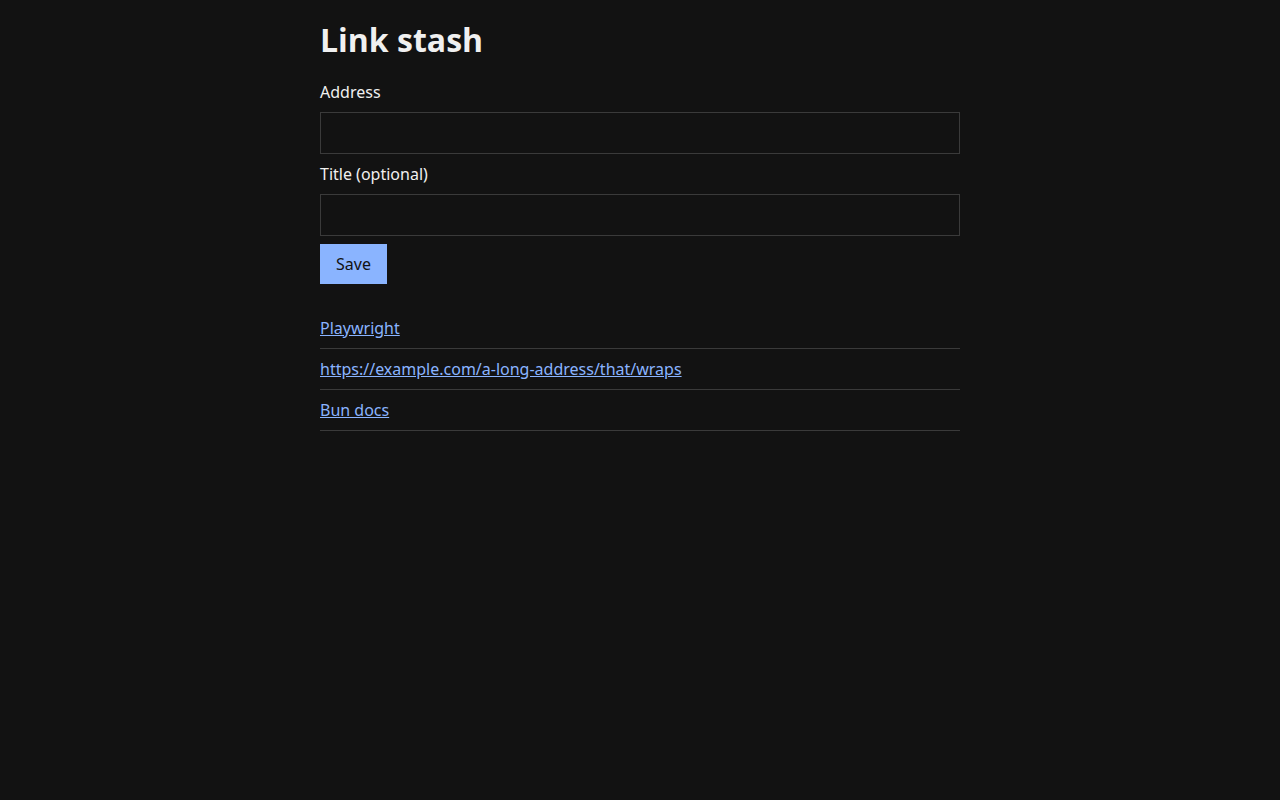
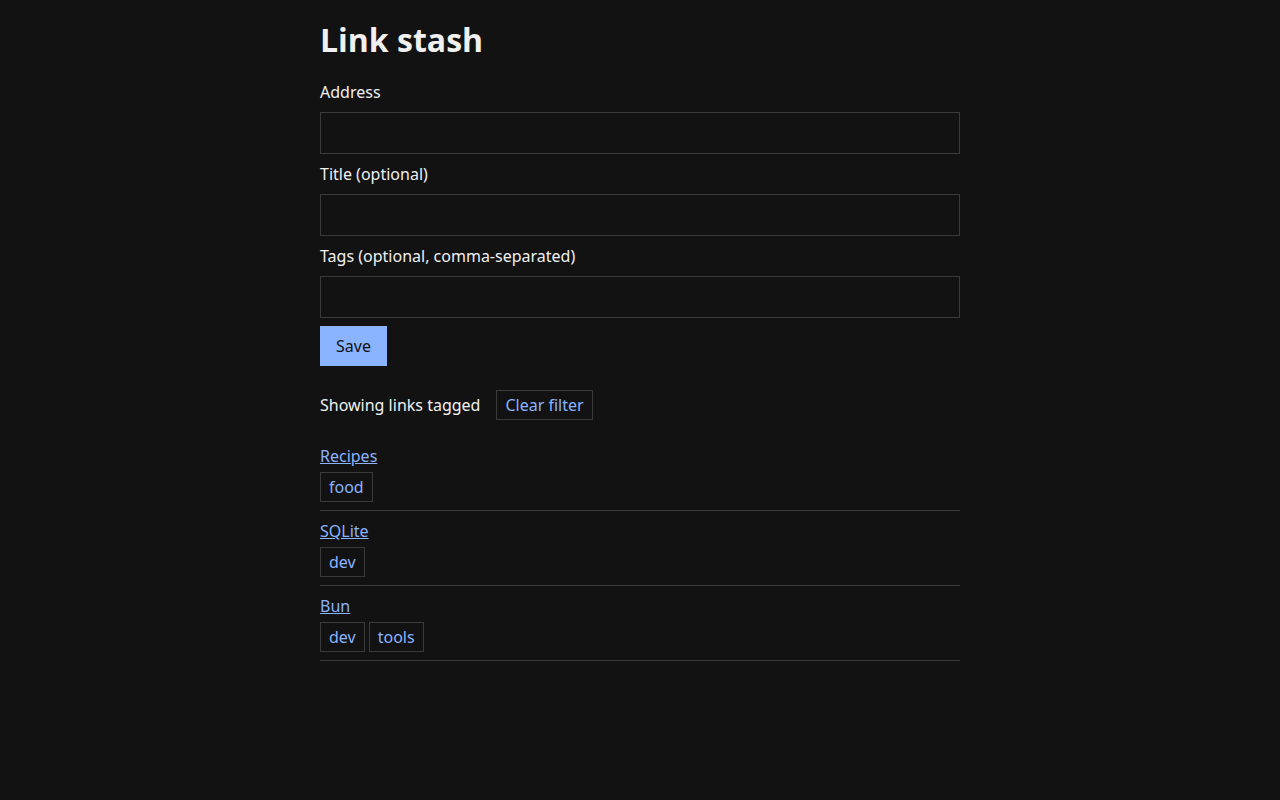
feat: tag a link and filter the list by tag (#9)

diff --git a/public/app.js b/public/app.js
@@ -3,10 +3,19 @@ const urlInput = document.getElementById('url');
 const titleInput = document.getElementById('title');
 const saveButton = document.getElementById('save');
 const urlError = document.getElementById('url-error');
+const tagsInput = document.getElementById('tags');
+const filterBar = document.getElementById('filter');
+const filterTag = document.getElementById('filter-tag');
+const clearFilter = document.getElementById('clear-filter');
 const empty = document.getElementById('empty');
 const list = document.getElementById('links');
 
+let activeTag = '';
+
 function render(links) {
+  empty.textContent = activeTag ? `No links tagged ${activeTag}` : 'No links saved yet';
+  filterBar.hidden = !activeTag;
+  filterTag.textContent = activeTag;
   empty.hidden = links.length > 0;
   list.hidden = links.length === 0;
   list.replaceChildren(
@@ -17,6 +26,20 @@ function render(links) {
       anchor.textContent = link.title || link.url;
       anchor.rel = 'noopener noreferrer';
       item.append(anchor);
+      if (link.tags.length > 0) {
+        const tags = document.createElement('span');
+        tags.className = 'tags';
+        for (const tag of link.tags) {
+          const button = document.createElement('button');
+          button.type = 'button';
+          button.className = 'tag';
+          button.textContent = tag;
+          button.setAttribute('aria-label', `Show links tagged ${tag}`);
+          button.addEventListener('click', () => setFilter(tag));
+          tags.append(button);
+        }
+        item.append(tags);
+      }
       return item;
     }),
   );
@@ -29,9 +52,23 @@ function showError(message) {
 }
 
 async function load() {
-  const res = await fetch('/api/links');
-  render((await res.json()).links);
+  try {
+    const res = await fetch(activeTag ? `/api/links?tag=${encodeURIComponent(activeTag)}` : '/api/links');
+    if (!res.ok) throw new Error(String(res.status));
+    render((await res.json()).links);
+  } catch {
+    empty.textContent = 'Could not load links. Reload to try again.';
+    empty.hidden = false;
+    list.hidden = true;
+  }
 }
+
+function setFilter(tag) {
+  activeTag = tag;
+  return load();
+}
+
+clearFilter.addEventListener('click', () => setFilter(''));
 
 form.addEventListener('submit', async (event) => {
   event.preventDefault();
@@ -41,7 +78,7 @@ form.addEventListener('submit', async (event) => {
     const res = await fetch('/api/links', {
       method: 'POST',
       headers: {'content-type': 'application/json'},
-      body: JSON.stringify({url: urlInput.value, title: titleInput.value}),
+      body: JSON.stringify({url: urlInput.value, title: titleInput.value, tags: tagsInput.value}),
     });
     if (!res.ok) {
       showError((await res.json()).error);

diff --git a/src/storage.test.ts b/src/storage.test.ts
@@ -13,14 +13,14 @@ test('migrating twice leaves the schema and data alone', () => {
   db.run("INSERT INTO links (url) VALUES ('https://example.com')");
   migrate(db);
   expect(countLinks(db)).toBe(1);
-  expect((db.query('PRAGMA user_version').get() as {user_version: number}).user_version).toBe(1);
+  expect((db.query('PRAGMA user_version').get() as {user_version: number}).user_version).toBe(2);
 });
 
 test('records stored before carry forward unchanged', () => {
   const db = openDatabase(':memory:');
   db.run("INSERT INTO links (url, title, created_at) VALUES ('https://old.example', 'Old', '2026-01-01 00:00:00')");
   migrate(db);
-  expect(listLinks(db)).toEqual([{id: 1, url: 'https://old.example', title: 'Old', created_at: '2026-01-01 00:00:00'}]);
+  expect(listLinks(db)).toEqual([{id: 1, url: 'https://old.example', title: 'Old', created_at: '2026-01-01 00:00:00', tags: []}]);
 });
 
 test('lists newest first', () => {
@@ -28,4 +28,24 @@ test('lists newest first', () => {
   addLink(db, 'https://a.example', '');
   addLink(db, 'https://b.example', 'B');
   expect(listLinks(db).map((l) => l.url)).toEqual(['https://b.example', 'https://a.example']);
+});
+
+test('a database at the first schema version gains tags and keeps its links', () => {
+  const db = new (require('bun:sqlite').Database)(':memory:');
+  db.run("CREATE TABLE links (id INTEGER PRIMARY KEY AUTOINCREMENT, url TEXT NOT NULL, title TEXT NOT NULL DEFAULT '', created_at TEXT NOT NULL DEFAULT CURRENT_TIMESTAMP)");
+  db.run("INSERT INTO links (url) VALUES ('https://old.example')");
+  db.run('PRAGMA user_version = 1');
+  migrate(db);
+  expect(listLinks(db).map((l) => [l.url, l.tags])).toEqual([['https://old.example', []]]);
+});
+
+test('tags are stored per link and filter the list', () => {
+  const db = openDatabase(':memory:');
+  addLink(db, 'https://a.example', '', ['news', 'dev']);
+  addLink(db, 'https://b.example', '', ['dev']);
+  addLink(db, 'https://c.example', '');
+  expect(listLinks(db)[2]?.tags).toEqual(['dev', 'news']);
+  expect(listLinks(db, 'dev').map((l) => l.url)).toEqual(['https://b.example', 'https://a.example']);
+  expect(listLinks(db, 'news').map((l) => l.url)).toEqual(['https://a.example']);
+  expect(listLinks(db, 'none')).toEqual([]);
 });

diff --git a/src/storage.ts b/src/storage.ts
@@ -7,6 +7,11 @@ const migrations: readonly string[] = [
     title TEXT NOT NULL DEFAULT '',
     created_at TEXT NOT NULL DEFAULT CURRENT_TIMESTAMP
   )`,
+  `CREATE TABLE link_tags (
+    link_id INTEGER NOT NULL REFERENCES links(id),
+    tag TEXT NOT NULL,
+    PRIMARY KEY (link_id, tag)
+  )`,
 ];
 
 export function migrate(db: Database): void {
@@ -34,14 +39,35 @@ export interface Link {
   url: string;
   title: string;
   created_at: string;
+  tags: string[];
 }
 
-export function addLink(db: Database, url: string, title: string): Link {
-  return db
-    .query('INSERT INTO links (url, title) VALUES (?, ?) RETURNING id, url, title, created_at')
-    .get(url, title) as Link;
+type LinkRow = Omit<Link, 'tags'>;
+
+export function addLink(db: Database, url: string, title: string, tags: string[] = []): Link {
+  return db.transaction(() => {
+    const row = db
+      .query('INSERT INTO links (url, title) VALUES (?, ?) RETURNING id, url, title, created_at')
+      .get(url, title) as LinkRow;
+    for (const tag of tags) db.query('INSERT INTO link_tags (link_id, tag) VALUES (?, ?)').run(row.id, tag);
+    return {...row, tags: [...tags].sort()};
+  })();
 }
 
-export function listLinks(db: Database): Link[] {
-  return db.query('SELECT id, url, title, created_at FROM links ORDER BY id DESC').all() as Link[];
+export function listLinks(db: Database, tag?: string): Link[] {
+  const rows = (
+    tag
+      ? db
+          .query(
+            `SELECT id, url, title, created_at FROM links
+             WHERE id IN (SELECT link_id FROM link_tags WHERE tag = ?) ORDER BY id DESC`,
+          )
+          .all(tag)
+      : db.query('SELECT id, url, title, created_at FROM links ORDER BY id DESC').all()
+  ) as LinkRow[];
+  const byLink = new Map<number, string[]>();
+  for (const t of db.query('SELECT link_id, tag FROM link_tags ORDER BY tag').all() as {link_id: number; tag: string}[]) {
+    byLink.set(t.link_id, [...(byLink.get(t.link_id) ?? []), t.tag]);
+  }
+  return rows.map((r) => ({...r, tags: byLink.get(r.id) ?? []}));
 }

diff --git a/src/app.ts b/src/app.ts
@@ -1,6 +1,6 @@
 import type {Database} from 'bun:sqlite';
 import {health} from './health';
-import {validateLink} from './links';
+import {parseTags, validateLink} from './links';
 import {addLink, listLinks} from './storage';
 
 const publicDir = new URL('../public/', import.meta.url);
@@ -8,13 +8,13 @@ const publicDir = new URL('../public/', import.meta.url);
 const json = (body: unknown, status = 200): Response => Response.json(body, {status});
 
 export async function handle(req: Request, db: Database): Promise<Response> {
-  const {pathname} = new URL(req.url);
+  const {pathname, searchParams} = new URL(req.url);
   if (pathname === '/api/links') {
-    if (req.method === 'GET') return json({links: listLinks(db)});
+    if (req.method === 'GET') return json({links: listLinks(db, parseTags(searchParams.get('tag'))[0])});
     if (req.method === 'POST') {
       const result = validateLink(await req.json().catch(() => null));
       if (!result.ok) return json({error: result.message, field: result.field}, 400);
-      return json(addLink(db, result.value.url, result.value.title), 201);
+      return json(addLink(db, result.value.url, result.value.title, result.value.tags), 201);
     }
     return json({error: 'method not allowed'}, 405);
   }

diff --git a/src/links.test.ts b/src/links.test.ts
@@ -1,15 +1,22 @@
 import {expect, test} from 'bun:test';
-import {validateLink} from './links';
+import {parseTags, validateLink} from './links';
 
 test('accepts http and https and trims', () => {
   expect(validateLink({url: ' https://example.com/a ', title: ' T '})).toEqual({
     ok: true,
-    value: {url: 'https://example.com/a', title: 'T'},
+    value: {url: 'https://example.com/a', title: 'T', tags: []},
   });
   expect(validateLink({url: 'http://example.com'})).toEqual({
     ok: true,
-    value: {url: 'http://example.com', title: ''},
+    value: {url: 'http://example.com', title: '', tags: []},
   });
+});
+
+test('tags are split, trimmed, lower-cased and de-duplicated', () => {
+  expect(parseTags(' News, dev ,,NEWS,')).toEqual(['news', 'dev']);
+  expect(parseTags(['A', ' b ', 5])).toEqual(['a', 'b']);
+  expect(parseTags(undefined)).toEqual([]);
+  expect(parseTags(null)).toEqual([]);
 });
 
 test.each([[{url: 'ftp://example.com'}], [{url: 'javascript:alert(1)'}], [{url: 'example.com'}], [{url: ''}], [{}], [null], [{url: 5}]])(

diff --git a/src/app.test.ts b/src/app.test.ts
@@ -74,3 +74,18 @@ test('missing files and path traversal are 404', async () => {
   expect((await get('/missing.txt')).status).toBe(404);
   expect((await get('/../package.json')).status).toBe(404);
 });
+
+test('tags are saved normalised, shown, and filter the list', async () => {
+  const db = openDatabase(':memory:');
+  const res = await post(db, {url: 'https://a.example', tags: ' Dev, News '});
+  expect(await res.json()).toMatchObject({tags: ['dev', 'news']});
+  await post(db, {url: 'https://b.example', tags: 'news'});
+  await post(db, {url: 'https://c.example'});
+  const urls = async (q: string) =>
+    ((await (await handle(new Request(`http://test/api/links${q}`), db)).json()) as {links: {url: string}[]}).links.map((l) => l.url);
+  expect(await urls('?tag=dev')).toEqual(['https://a.example']);
+  expect(await urls('?tag=NEWS')).toEqual(['https://b.example', 'https://a.example']);
+  expect(await urls('?tag=missing')).toEqual([]);
+  expect(await urls('')).toHaveLength(3);
+  expect(await urls('?tag=')).toHaveLength(3);
+});

diff --git a/src/links.ts b/src/links.ts
@@ -1,9 +1,16 @@
 export interface LinkInput {
   url: string;
   title: string;
+  tags: string[];
 }
 
 export type Validation = {ok: true; value: LinkInput} | {ok: false; field: 'url' | 'title'; message: string};
+
+export function parseTags(raw: unknown): string[] {
+  const parts = Array.isArray(raw) ? raw : typeof raw === 'string' ? raw.split(',') : [];
+  const tags = parts.filter((p): p is string => typeof p === 'string').map((p) => p.trim().toLowerCase()).filter(Boolean);
+  return [...new Set(tags)];
+}
 
 export function validateLink(body: unknown): Validation {
   const raw = (body ?? {}) as Record<string, unknown>;
@@ -18,5 +25,5 @@ export function validateLink(body: unknown): Validation {
   if (!parsed || (parsed.protocol !== 'http:' && parsed.protocol !== 'https:')) {
     return {ok: false, field: 'url', message: 'url must be an http or https address'};
   }
-  return {ok: true, value: {url, title}};
+  return {ok: true, value: {url, title, tags: parseTags(raw.tags)}};
 }

diff --git a/public/index.html b/public/index.html
@@ -16,8 +16,14 @@
       <p id="url-error" class="error" role="alert" hidden></p>
       <label for="title">Title (optional)</label>
       <input id="title" name="title" type="text" autocomplete="off">
+      <label for="tags">Tags (optional, comma-separated)</label>
+      <input id="tags" name="tags" type="text" autocomplete="off">
       <button id="save" type="submit">Save</button>
     </form>
+    <p id="filter" class="filter" hidden>
+      Showing links tagged <strong id="filter-tag"></strong>
+      <button id="clear-filter" type="button" class="secondary">Clear filter</button>
+    </p>
     <p id="empty" class="empty">No links saved yet</p>
     <ul id="links" hidden></ul>
   </main>

diff --git a/public/style.css b/public/style.css
@@ -46,3 +46,13 @@ button:disabled { opacity: 0.6; }
 ul { padding: 0; list-style: none; }
 li { padding: 0.5rem 0; border-bottom: 1px solid var(--color-border); overflow-wrap: anywhere; }
 a { color: var(--color-accent); }
+
+.tags { display: flex; flex-wrap: wrap; gap: 0.25rem; margin-top: 0.25rem; }
+.tag, button.secondary {
+  padding: 0.125rem 0.5rem;
+  color: var(--color-accent);
+  background: var(--color-bg);
+  border: 1px solid var(--color-border);
+}
+.filter { display: flex; flex-wrap: wrap; align-items: center; gap: 0.5rem; }
+button:focus-visible, input:focus-visible, a:focus-visible { outline: 2px solid var(--color-accent); outline-offset: 2px; }

diff --git a/README.md b/README.md
@@ -11,6 +11,8 @@ merges only when the gates in `.forger/workloop.config.json` and CI pass.
 - Save a link from the form on `/`: an address (http or https only) and an optional title. The newest link is listed first, and links persist across restarts.
 - `POST /api/links` with `{"url", "title"}` stores a link and answers 201; an invalid address answers 400 with `{"error", "field"}`. `GET /api/links` returns `{"links": [...]}`, newest first.
 
+- Tag a link with a comma-separated field on save; tags are stored trimmed and lower-case and shown on each link. Selecting a tag filters the list, and "Clear filter" shows every link again. `GET /api/links?tag=x` returns only links carrying that tag, and `POST` accepts a `tags` string. Links saved before tags existed have none.
+
 ![Empty list](docs/screenshots/index-desktop-light.png)
 ![Full list](docs/screenshots/index-full-desktop-light.png)
 
